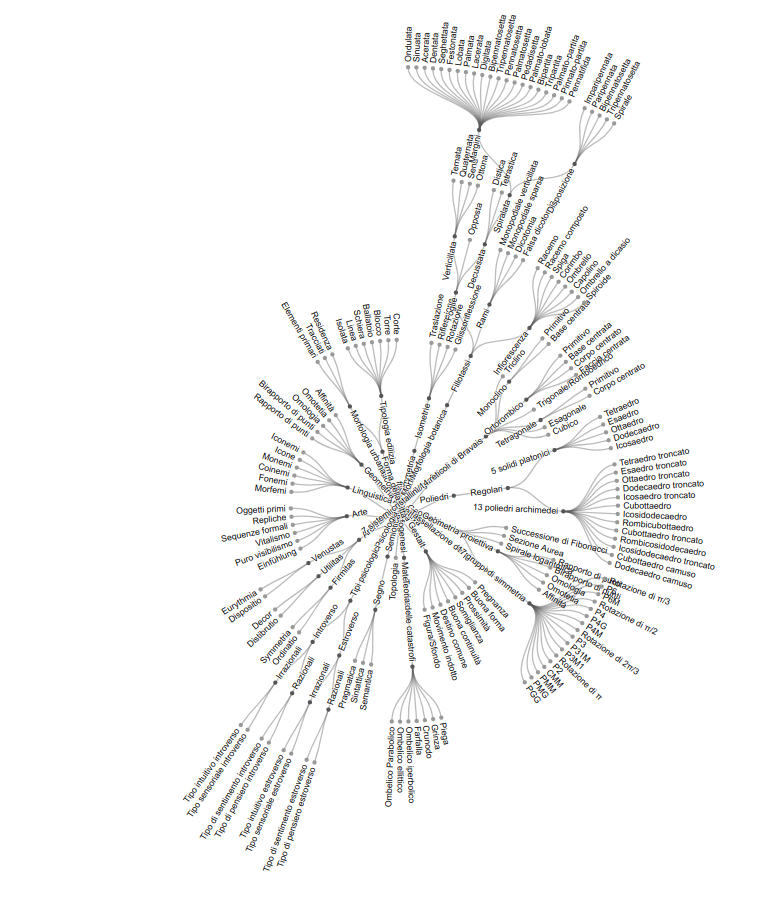
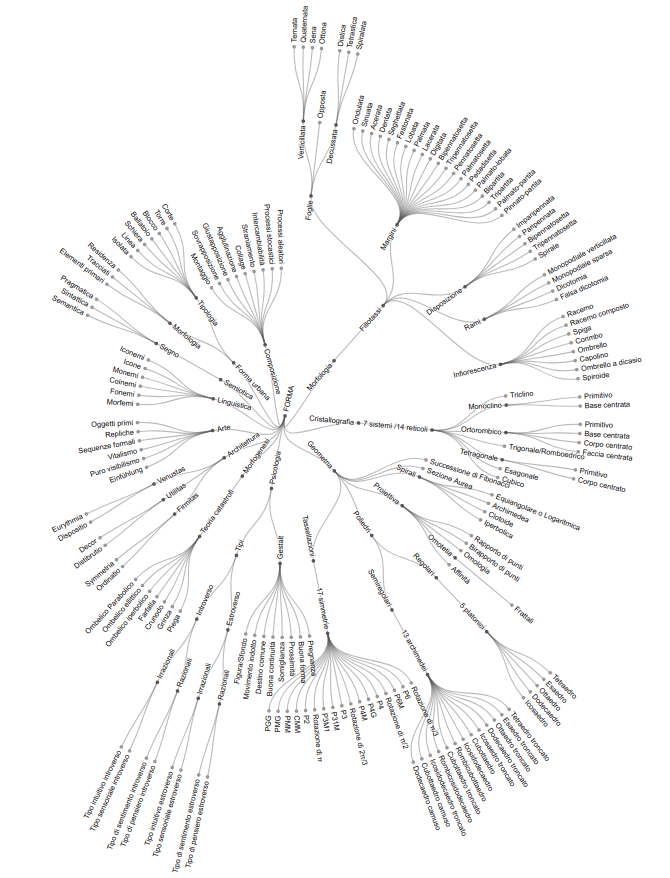
New map for document 2

Changed region(s): [[0.0896, 0.0, 0.9552, 1.0]]

diff --git a/index3.html b/index3.html
@@ -7,7 +7,8 @@
 
     <div class="container">
       <!-- <svg width="960" height="1060"></svg> -->
-      <svg width="960" height="960" viewBox="0 0 1100 1100"></svg>
+      <!-- <svg width="960" height="960" viewBox="0 0 1100 1100"></svg> -->
+      <svg width="960" height="960" viewBox="0 0 1300 1300"></svg>
     </div>
 
     <script src="https://d3js.org/d3.v4.min.js"></script>
